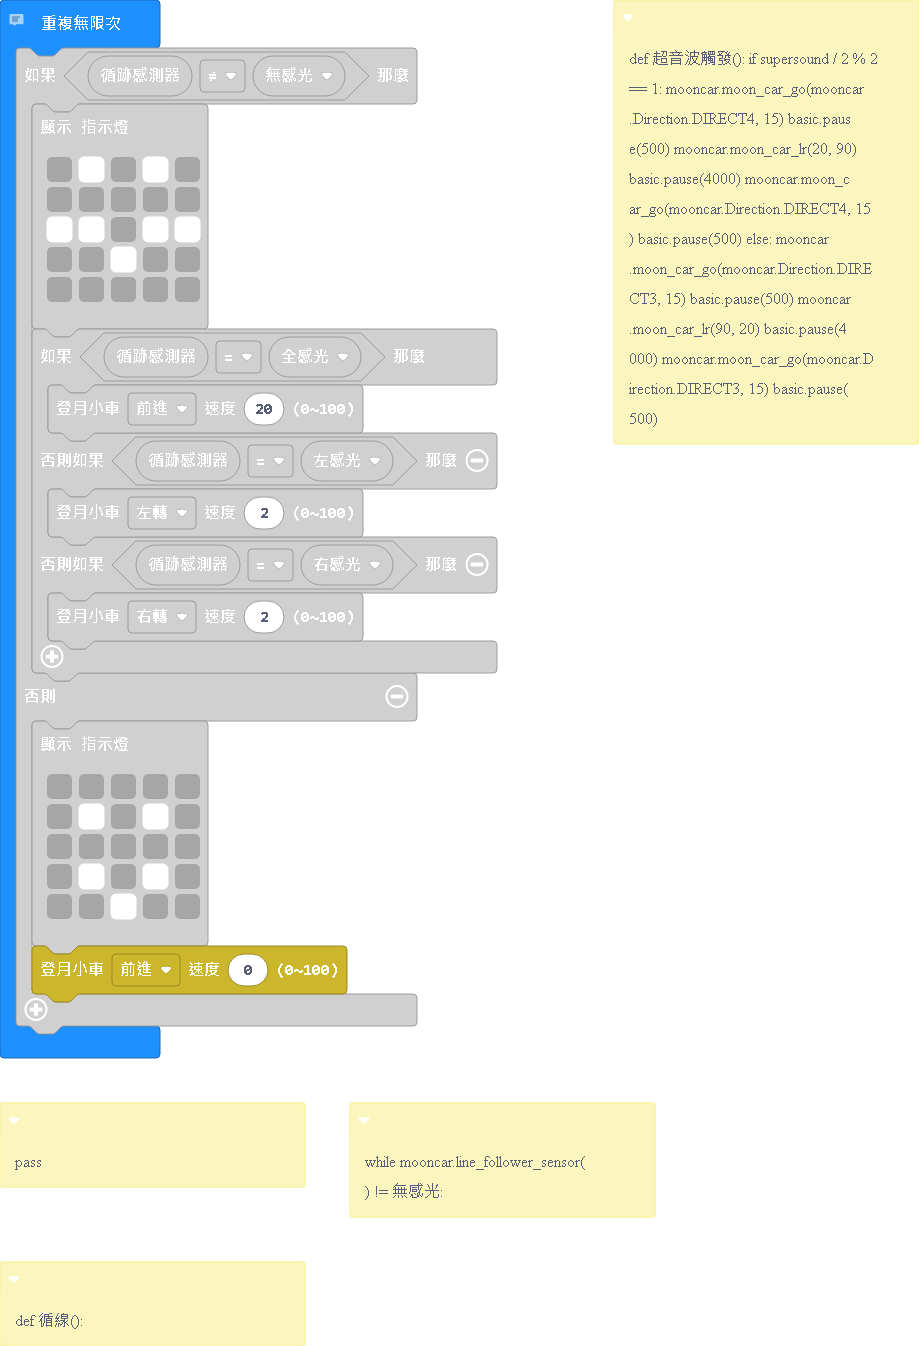
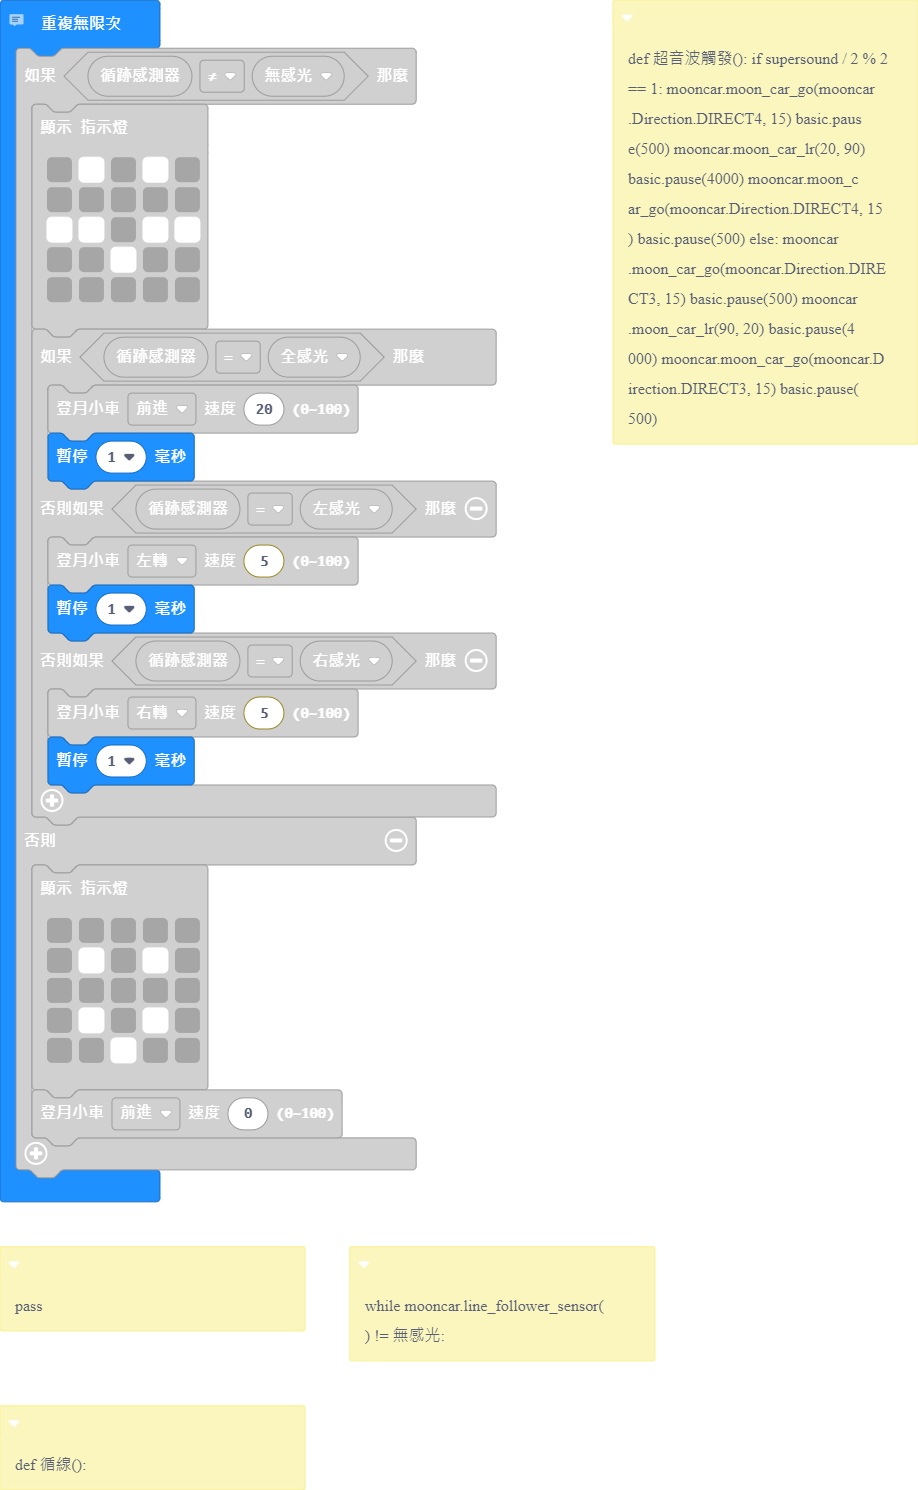
更新 main.blocks, main.ts, main.py

diff --git a/main.ts b/main.ts
@@ -61,10 +61,13 @@ basic.forever(function () {
             `)
         if (mooncar.LineFollowerSensor() == 全感光) {
             mooncar.MoonCarGo(mooncar.Direction.direct1, 20)
+            basic.pause(1)
         } else if (mooncar.LineFollowerSensor() == 左感光) {
-            mooncar.MoonCarGo(mooncar.Direction.direct3, 2)
+            mooncar.MoonCarGo(mooncar.Direction.direct3, 5)
+            basic.pause(1)
         } else if (mooncar.LineFollowerSensor() == 右感光) {
-            mooncar.MoonCarGo(mooncar.Direction.direct4, 2)
+            mooncar.MoonCarGo(mooncar.Direction.direct4, 5)
+            basic.pause(1)
         }
     } else {
         basic.showLeds(`

diff --git a/main.py b/main.py
@@ -1,13 +1,3 @@
-# def 循線():
-#     while mooncar.line_follower_sensor() != 無感光:
-#         pass
-無感光 = 0
-mooncar.filllight(mooncar.Switch.OPEN)
-無感光 = 3
-右感光 = 2
-左感光 = 1
-全感光 = 0
-supersound = 1
 """
 
 def 超音波觸發():
@@ -41,22 +31,52 @@ mooncar.moon_car_go(mooncar.Direction.DIRECT3, 15)
 basic.pause(500)
 
 """
+"""
 
+def 循線():
+
+"""
+"""
+
+while mooncar.line_follower_sensor() != 無感光:
+
+"""
+"""
+
+pass
+
+"""
+mooncar.filllight(mooncar.Switch.OPEN)
+無感光 = 3
+右感光 = 2
+左感光 = 1
+supersound = 1
 # def on_forever():
-#     if supersound % 2 == 1:
-#         循線()
-#     else:
-#         basic.pause(6000)
+# if supersound % 2 == 1:
+# 循線()
+# else:
+# basic.pause(6000)
 # basic.forever(on_forever)
 
-def on_forever2():
+def on_forever():
     if mooncar.line_follower_sensor() != 無感光:
+        全感光 = 0
+        basic.show_leds("""
+            . # . # .
+                        . . . . .
+                        # # . # #
+                        . . # . .
+                        . . . . .
+        """)
         if mooncar.line_follower_sensor() == 全感光:
             mooncar.moon_car_go(mooncar.Direction.DIRECT1, 20)
+            basic.pause(1)
         elif mooncar.line_follower_sensor() == 左感光:
-            mooncar.moon_car_go(mooncar.Direction.DIRECT4, 20)
+            mooncar.moon_car_go(mooncar.Direction.DIRECT3, 5)
+            basic.pause(1)
         elif mooncar.line_follower_sensor() == 右感光:
-            mooncar.moon_car_go(mooncar.Direction.DIRECT3, 20)
+            mooncar.moon_car_go(mooncar.Direction.DIRECT4, 5)
+            basic.pause(1)
     else:
         basic.show_leds("""
             . . . . .
@@ -65,4 +85,5 @@ def on_forever2():
                         . # . # .
                         . . # . .
         """)
-basic.forever(on_forever2)
+        mooncar.moon_car_go(mooncar.Direction.DIRECT1, 0)
+basic.forever(on_forever)
